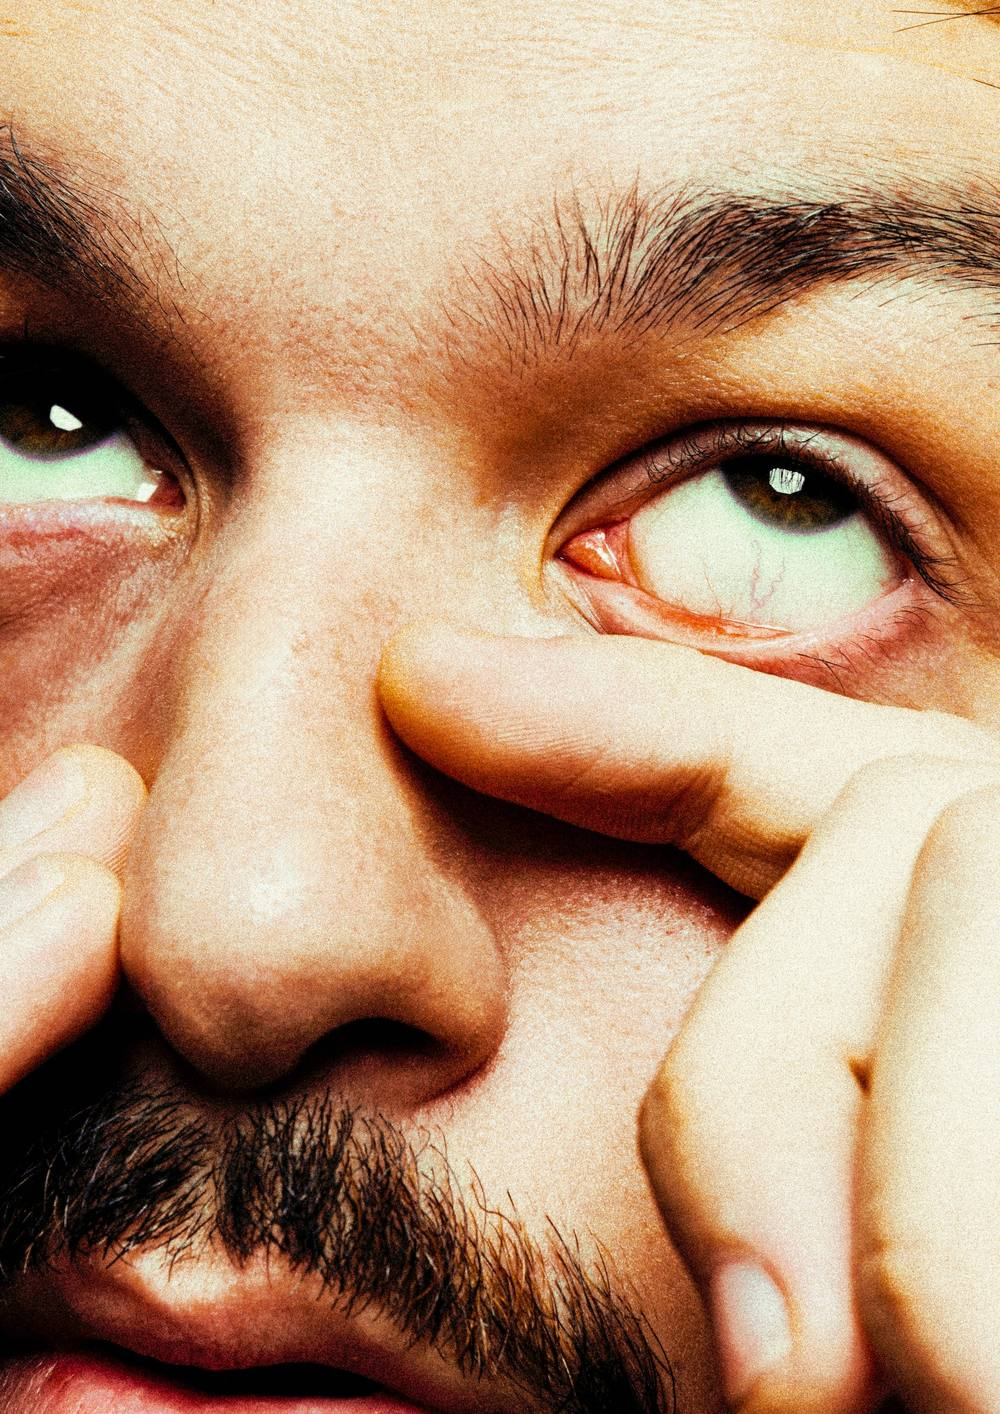
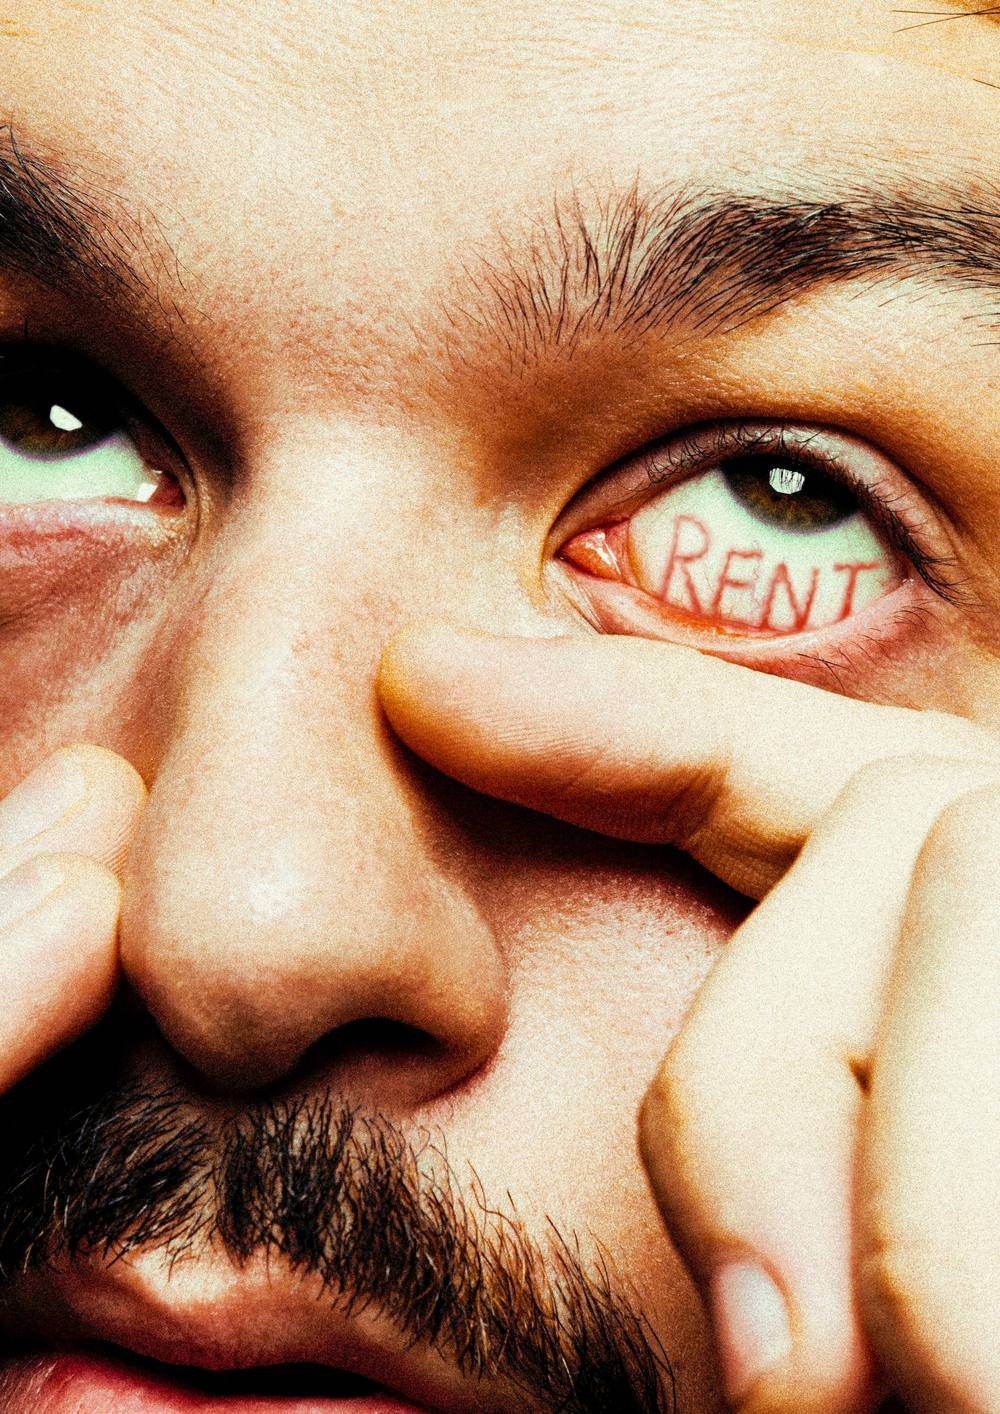
Hero: updated first photo
Claude-Session: https://claude.ai/code/session_01WX6uRsqcYXWdFqDAGXthUi

Changed region(s): [[0.651, 0.3423, 0.899, 0.4668]]

diff --git a/index.html b/index.html
@@ -17,8 +17,8 @@
 <link rel="icon" type="image/png" sizes="32x32" href="favicon-32.png">
 <link rel="apple-touch-icon" href="apple-touch-icon.png">
 <script defer src="https://cloud.umami.is/script.js" data-website-id="f77260aa-2fc8-4497-9ee6-ddd14eaf5aa1"></script>
-<link rel="stylesheet" href="fonts.css?v=202611131345">
-<link rel="stylesheet" href="style.css?v=202611131345">
+<link rel="stylesheet" href="fonts.css?v=202611140120">
+<link rel="stylesheet" href="style.css?v=202611140120">
 </head>
 <body>
 
@@ -76,7 +76,7 @@
     </div>
     <p class="t a lh98" style="--d:90;--m:50">13.12 / 23.12 / 24.12<br>20:00</p>
   </div>
-  <div class="hero__photo hero__slides slides" role="img" aria-label="RENT"><img src="images/home/hero-1.jpg?v=2611101045" alt="" class="is-on"><img src="images/home/hero-3.jpg?v=2611101045" alt=""><img src="images/home/hero-4.jpg?v=2611101045" alt=""><img src="images/home/hero-5.jpg?v=2611101045" alt=""><img src="images/home/hero-11.jpg?v=2611111310" alt=""><img src="images/home/hero-6.jpg?v=2611101045" alt=""><img src="images/home/hero-7.jpg?v=2611101045" alt=""><img src="images/home/hero-8.jpg?v=2611101045" alt=""><img src="images/home/hero-9.jpg?v=2611101045" alt=""><img src="images/home/hero-10.jpg?v=2611101045" alt=""></div>
+  <div class="hero__photo hero__slides slides" role="img" aria-label="RENT"><img src="images/home/hero-1.jpg?v=2611140120" alt="" class="is-on"><img src="images/home/hero-3.jpg?v=2611101045" alt=""><img src="images/home/hero-4.jpg?v=2611101045" alt=""><img src="images/home/hero-5.jpg?v=2611101045" alt=""><img src="images/home/hero-11.jpg?v=2611111310" alt=""><img src="images/home/hero-6.jpg?v=2611101045" alt=""><img src="images/home/hero-7.jpg?v=2611101045" alt=""><img src="images/home/hero-8.jpg?v=2611101045" alt=""><img src="images/home/hero-9.jpg?v=2611101045" alt=""><img src="images/home/hero-10.jpg?v=2611101045" alt=""></div>
 </section>
 
 <!-- ===== PINK STRIP (EN only, desktop) ===== -->
@@ -92,7 +92,7 @@
     <h2 class="sx__h t a" style="--d:150;--m:56" data-i18n="about_h">WHAT IS “RENT”</h2>
     <div class="sx__body">
       <p class="sx__p o-l4" data-i18n="dx_ab1">RENT is a rock musical by Jonathan Larson about a year in the life of a group of young artists in New York in the early nineties. They can’t pay the rent, they fall in love, they lose each other, and they’re right in the middle of the AIDS crisis.</p>
-      <div class="sx-img o-l4" style="--r:1600/1122"><img src="images/home/original-cast.jpg?v=202611131345" alt="Original RENT cast, 1996"></div>
+      <div class="sx-img o-l4" style="--r:1600/1122"><img src="images/home/original-cast.jpg?v=202611140120" alt="Original RENT cast, 1996"></div>
       <p class="sx__p o-r4" data-i18n="dx_ab2">Larson wrote it about his own friends and neighbourhood. He died suddenly, at age 35, the night before the first preview of the show, and never saw what came next: RENT moved to Broadway, won the Pulitzer Prize and four Tony Awards (including Best Musical), ran for twelve years and became one of the most iconic musicals ever written.</p>
       <p class="sx__p o-l2" data-i18n="dx_ab3">People get sick, fall in and out of love, behave like complete assholes — often all in the same song. Somehow, you end up rooting for them. Larson took Puccini’s La Bohème and moved it to 1990s New York.</p>
       <p class="sx__q o-l2" data-i18n="dx_abq">Thirty years later, we’re bringing his New York to Belgrade, and it feels just as relevant here and now.</p>
@@ -130,7 +130,7 @@
     <h2 class="sx__h t a" style="--d:150;--m:56" data-i18n="team_h">TEAM</h2>
     <div class="sx__body">
       <p class="sx__p o-l2" data-i18n="dx_tm1">We’re a cast and crew from Serbia, Russia and the US who decided to stage a Broadway musical with whatever time and money we could offer. We did it because we love this show deeply, and because right now Belgrade needs this story more than ever.</p>
-      <div class="sx-img o-l4" style="--r:1045/840;--op:50% 64%"><video autoplay muted loop playsinline webkit-playsinline preload="auto" poster="images/team-poster.jpg?v=202611131345" aria-label="RENT team"><source src="images/team.mp4?v=202611131345" type="video/mp4"><source src="images/team.webm?v=202611131345" type="video/webm"></video></div>
+      <div class="sx-img o-l4" style="--r:1045/840;--op:50% 64%"><video autoplay muted loop playsinline webkit-playsinline preload="auto" poster="images/team-poster.jpg?v=202611140120" aria-label="RENT team"><source src="images/team.mp4?v=202611140120" type="video/mp4"><source src="images/team.webm?v=202611140120" type="video/webm"></video></div>
       <a class="sx__q sx__link o-l4" href="team/" data-i18n="dx_tmlink">get to know us better</a>
     </div>
 </section>
@@ -232,9 +232,9 @@
 <!-- ===== MOBILE STICKY CTA ===== -->
 <a href="#tickets" class="cta-bar cta-bar--fixed" data-i18n="cta_buy">BUY A TICKET</a>
 
-<script src="i18n.js?v=202611131345"></script>
-<script src="main.js?v=202611131345"></script>
+<script src="i18n.js?v=202611140120"></script>
+<script src="main.js?v=202611140120"></script>
 <script src="https://hub.xtix.ai/static/scripts/widget/xtixwidget.js"></script>
-<script src="fx.js?v=202611131345"></script>
+<script src="fx.js?v=202611140120"></script>
 </body>
 </html>

diff --git a/team/index.html b/team/index.html
@@ -17,8 +17,8 @@
 <link rel="icon" type="image/png" sizes="32x32" href="../favicon-32.png">
 <link rel="apple-touch-icon" href="../apple-touch-icon.png">
 <script defer src="https://cloud.umami.is/script.js" data-website-id="f77260aa-2fc8-4497-9ee6-ddd14eaf5aa1"></script>
-<link rel="stylesheet" href="../fonts.css?v=202611131345">
-<link rel="stylesheet" href="../style.css?v=202611131345">
+<link rel="stylesheet" href="../fonts.css?v=202611140120">
+<link rel="stylesheet" href="../style.css?v=202611140120">
 </head>
 <body class="teampage">
 
@@ -136,7 +136,7 @@
 <!-- ===== MOBILE STICKY CTA ===== -->
 <a href="../#tickets" class="cta-bar cta-bar--fixed" data-i18n="cta_buy">BUY A TICKET</a>
 
-<script src="../i18n.js?v=202611131345"></script>
-<script src="../main.js?v=202611131345"></script>
+<script src="../i18n.js?v=202611140120"></script>
+<script src="../main.js?v=202611140120"></script>
 </body>
 </html>

diff --git a/thankyou/index.html b/thankyou/index.html
@@ -6,8 +6,8 @@
 <title>THANK YOU — RENT MUSICAL BELGRADE</title>
 <meta name="robots" content="noindex">
 <script defer src="https://cloud.umami.is/script.js" data-website-id="f77260aa-2fc8-4497-9ee6-ddd14eaf5aa1"></script>
-<link rel="stylesheet" href="../fonts.css?v=202611131345">
-<link rel="stylesheet" href="../style.css?v=202611131345">
+<link rel="stylesheet" href="../fonts.css?v=202611140120">
+<link rel="stylesheet" href="../style.css?v=202611140120">
 <style>
   /* This page opens inside the xtix widget (iframe), so it is just the pink block,
      scaled to the width of the frame. */
